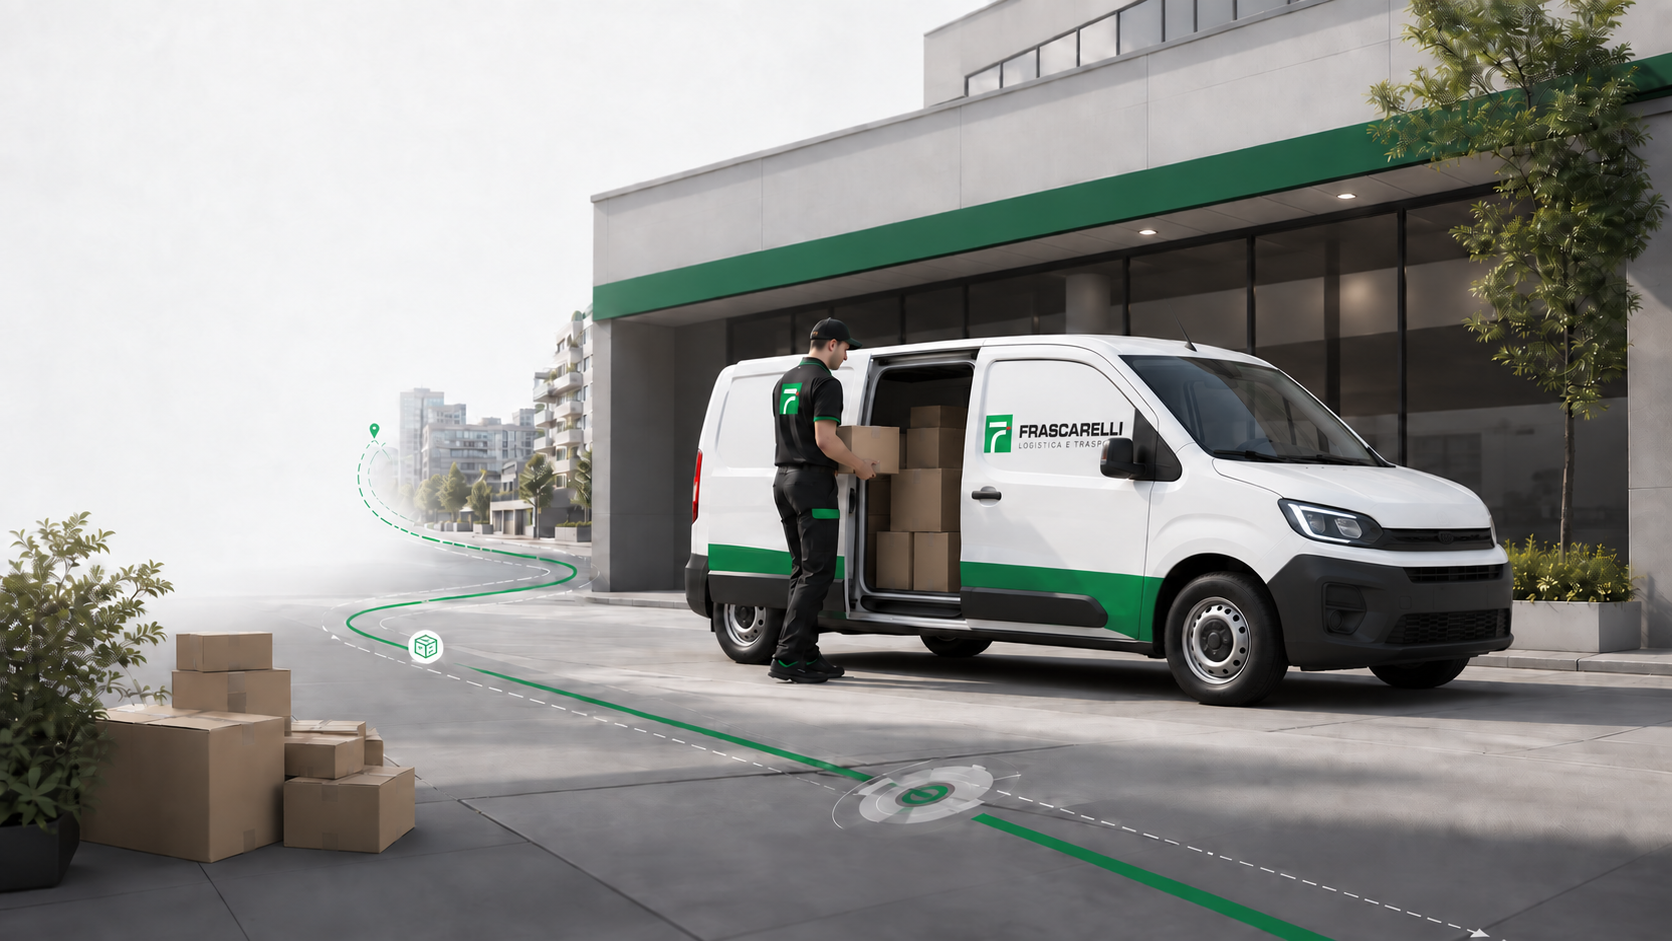
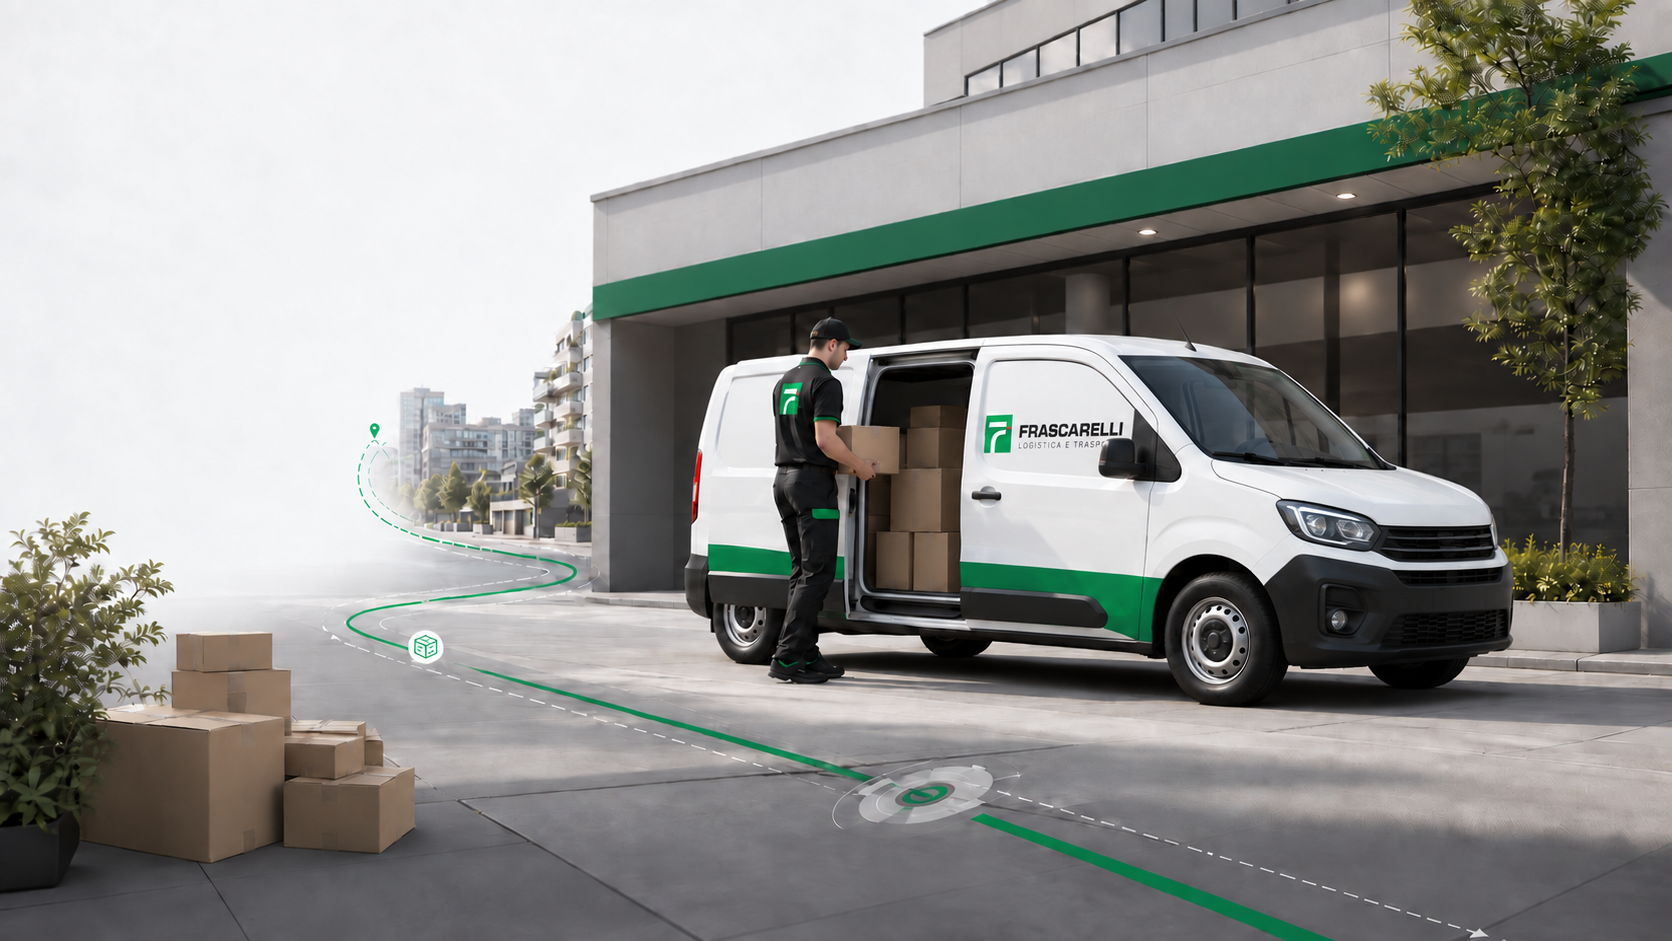
Finalize clean warehouse hero and compact van

diff --git a/index.html b/index.html
@@ -28,14 +28,14 @@
   <meta property="og:description"
     content="Frascarelli Trasporti: logistica, trasporto e consegne last mile. Oltre 2 milioni di pacchi consegnati." />
   <meta property="og:url" content="https://frascarellitrasporti.com/" />
-  <meta property="og:image" content="https://frascarellitrasporti.com/assets/photos/warehouse-hero-current-brand.png?v=20260915-6" />
+  <meta property="og:image" content="https://frascarellitrasporti.com/assets/photos/warehouse-hero-current-brand.png?v=20260915-7" />
   <meta name="twitter:card" content="summary_large_image" />
   <link rel="preconnect" href="https://fonts.googleapis.com" />
   <link rel="preconnect" href="https://fonts.gstatic.com" crossorigin />
   <link
     href="https://fonts.googleapis.com/css2?family=Manrope:wght@400;500;600;700;800&family=Noto+Sans+Arabic:wght@400;500;600;700;800&family=Noto+Sans+SC:wght@400;500;600;700;800&family=Space+Grotesk:wght@500;600;700&display=swap"
     rel="stylesheet" />
-  <link rel="preload" as="image" href="assets/photos/warehouse-hero-current-brand.png?v=20260915-6" />
+  <link rel="preload" as="image" href="assets/photos/warehouse-hero-current-brand.png?v=20260915-7" />
   <link rel="stylesheet" href="https://cdnjs.cloudflare.com/ajax/libs/leaflet/1.9.4/leaflet.min.css" />
   <link rel="stylesheet" href="css/styles.css" />
   <script type="application/ld+json">
@@ -45,7 +45,7 @@
     "name": "Frascarelli Trasporti",
     "url": "https://frascarellitrasporti.com/",
     "logo": "https://frascarellitrasporti.com/assets/images/frascarelli-brand-primary.png",
-    "image": "https://frascarellitrasporti.com/assets/photos/warehouse-hero-current-brand.png?v=20260915-6",
+    "image": "https://frascarellitrasporti.com/assets/photos/warehouse-hero-current-brand.png?v=20260915-7",
     "email": "info@frascarellitrasporti.com",
     "taxID": "03172080214",
     "foundingDate": "2022",
@@ -97,7 +97,7 @@
 
   <main id="main-content">
     <section class="hero" id="home">
-      <img class="hero-image" src="assets/photos/warehouse-hero-current-brand.png?v=20260915-6" alt="Magazzino Frascarelli Trasporti operativo"
+      <img class="hero-image" src="assets/photos/warehouse-hero-current-brand.png?v=20260915-7" alt="Magazzino Frascarelli Trasporti operativo"
         data-i18n-attr="alt:hero.imageAlt"
         width="1448" height="1086" fetchpriority="high" />
       <div class="hero-shade"></div>
@@ -304,7 +304,7 @@
               </div>
             </div>
             <figure class="last-mile-visual">
-              <img src="assets/illustrations/last-mile-frascarelli-compact-van.png?v=20260915-1"
+              <img src="assets/illustrations/last-mile-frascarelli-compact-van.png?v=20260915-2"
                 alt="Furgone Frascarelli Trasporti per le consegne dell'ultimo miglio"
                 data-i18n-attr="alt:clients.lastmile.imageAlt" width="1672" height="941" loading="lazy" />
             </figure>
